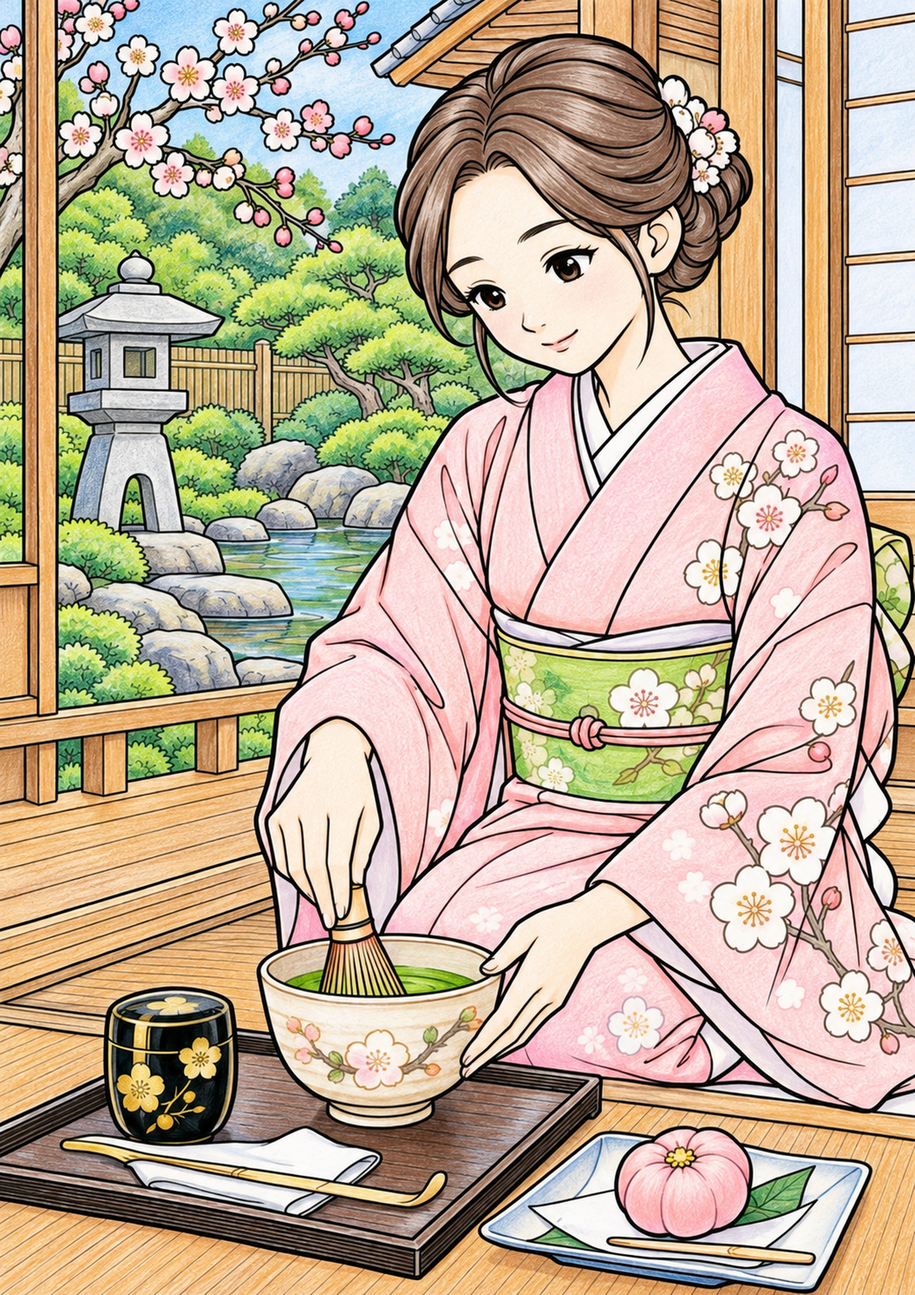
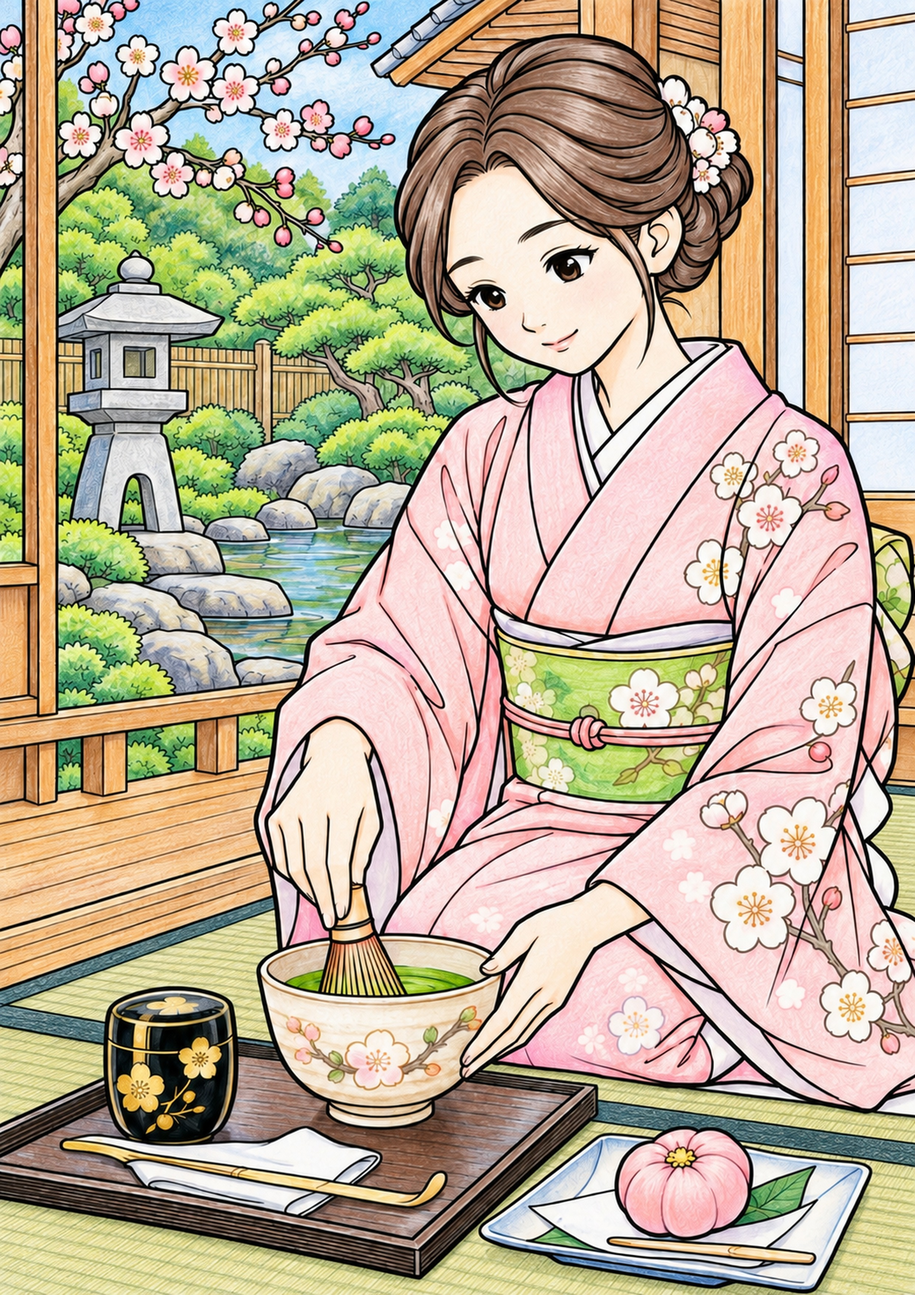
縁側でお茶を点てる女性：色見本の手前の床を畳の色に作り直し
Claude-Session: https://claude.ai/code/session_01EPRbSRhdmzTqVbNJNwFL82

diff --git a/data.js b/data.js
@@ -1029,7 +1029,7 @@ window.NURIE_LIST = [
   { season: "秋", genre: "人物", title: "文机で手紙を書く女性", diff: "中級", file: "up_1793160006000_6.png", sample: "up_1793160006000_6_sample.jpg", added: "2026-10", date: "2026-10-28", v: "1793160000000" },
   { season: "通年", genre: "人物", title: "花屋の店先の女性", diff: "中級", file: "up_1793159476877_1.png", sample: "up_1793159476877_1_sample.jpg", added: "2026-10", date: "2026-10-28", v: "1793159476877" },
   { season: "通年", genre: "人物", title: "生け花をする女性", diff: "中級", file: "up_1793160392152_1.png", sample: "up_1793160392152_1_sample.jpg", added: "2026-10", date: "2026-10-28", v: "1793160391152" },
-  { season: "通年", genre: "人物", title: "縁側でお茶を点てる女性", diff: "中級", file: "up_1793160393152_2.png", sample: "up_1793160393152_2_sample.jpg", added: "2026-10", date: "2026-10-28", v: "1793160391152" },
+  { season: "通年", genre: "人物", title: "縁側でお茶を点てる女性", diff: "中級", file: "up_1793160393152_2.png", sample: "up_1793160393152_2_sample.jpg", added: "2026-10", date: "2026-10-28", v: "1793186690639" },
   { season: "通年", genre: "風景", title: "盆栽の中の山寺", diff: "上級", file: "up_1793160971327_1.png", sample: "up_1793160971327_1_sample.jpg", added: "2026-10", date: "2026-10-28", v: "1793160971327" },
   { season: "通年", genre: "食べ物", title: "風呂敷包みとお弁当", diff: "初級", file: "up_1793161611547_1.png", sample: "up_1793161611547_1_sample.jpg", added: "2026-10", date: "2026-10-28", v: "1793161611547" },
   { season: "通年", genre: "風物詩", title: "たばこ屋の店先と赤電話", diff: "上級", file: "up_1793163269933_1.png", sample: "up_1793163269933_1_sample.jpg", added: "2026-10", date: "2026-10-28", v: "1793163268933" },
